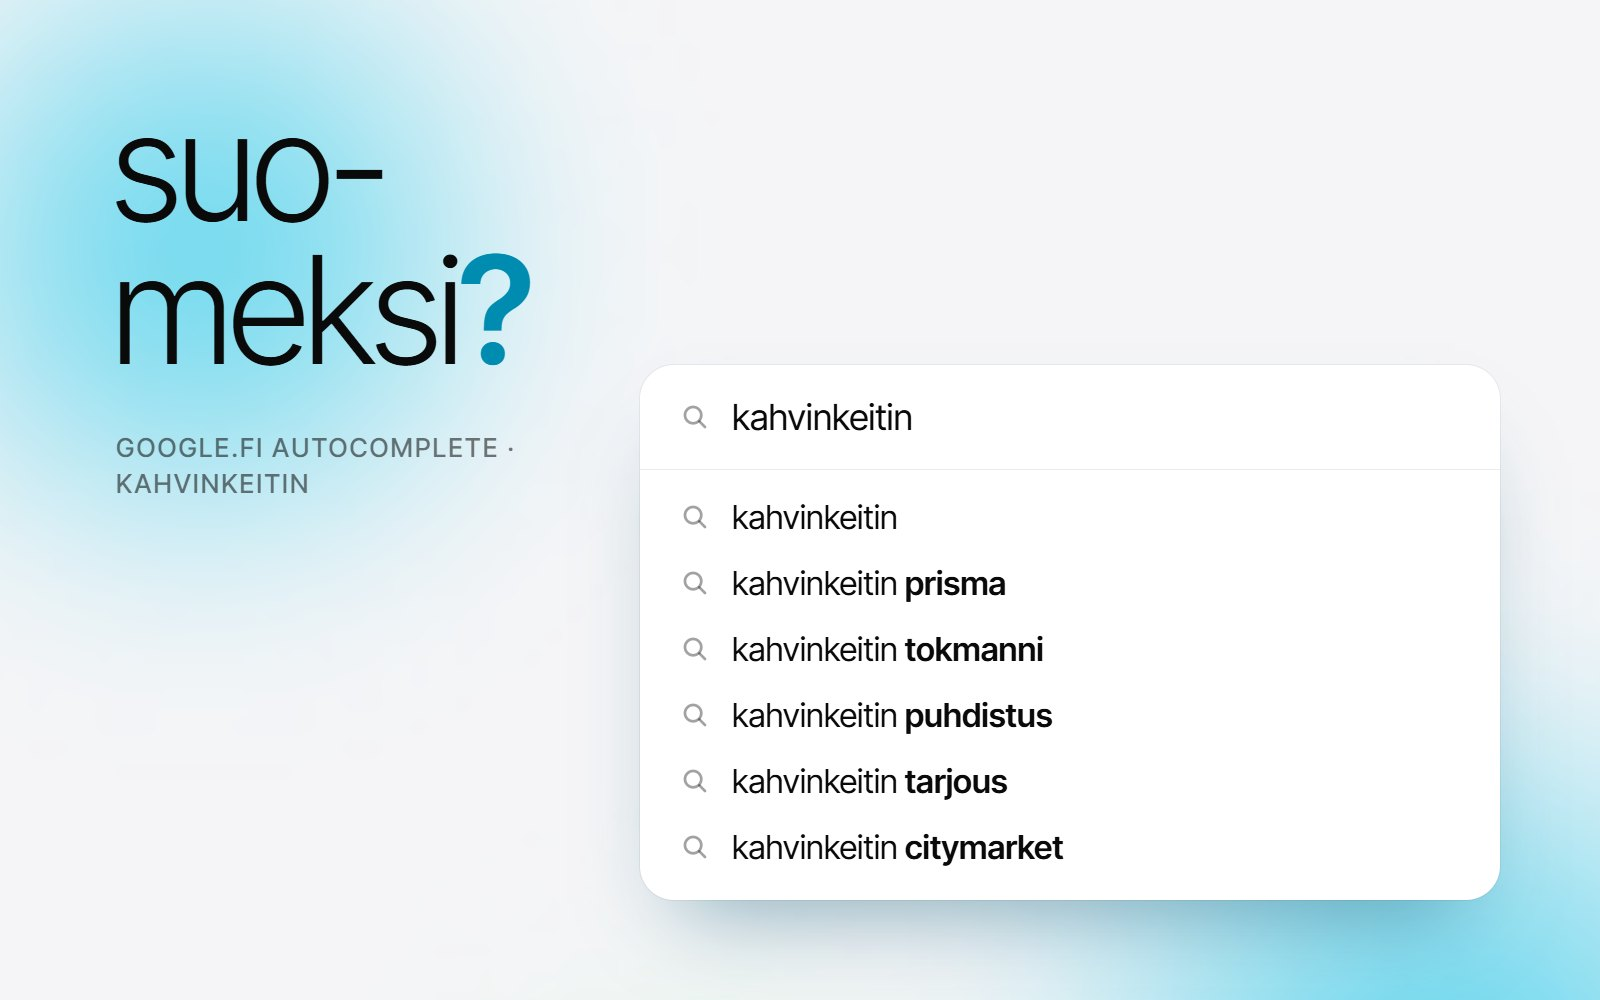
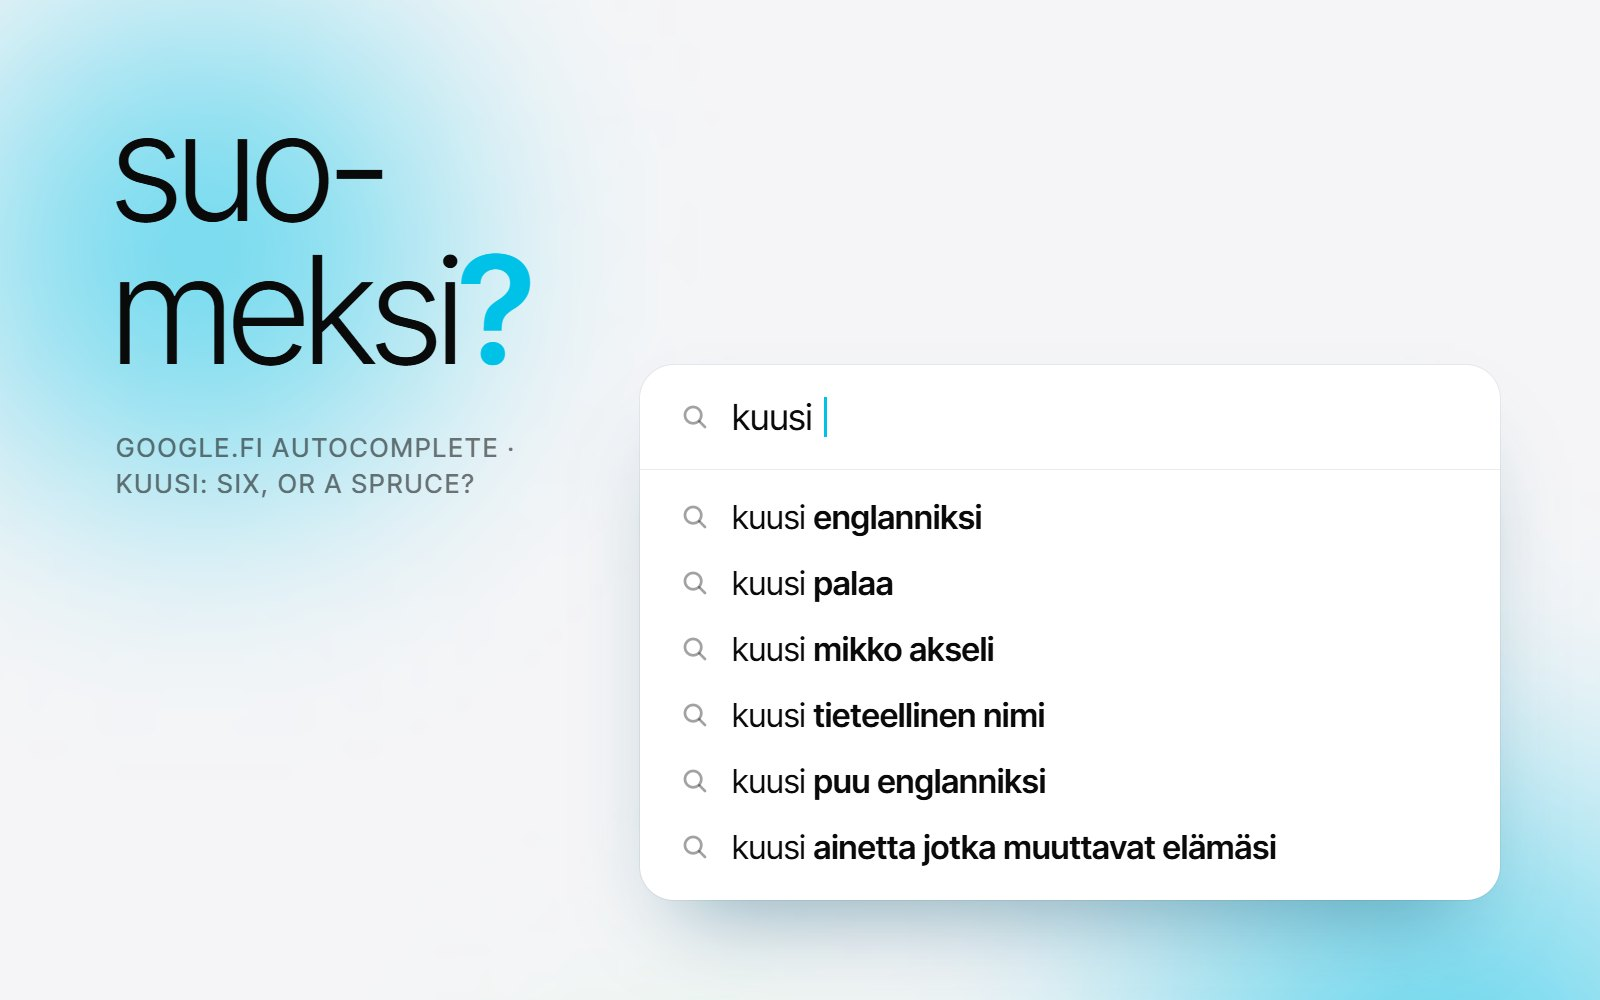
Guide covers v2: partial query keng, ambiguous kuusi, international experience on who-to-hire, Wolt blue

diff --git a/finnish-seo/how-to-choose-a-finnish-seo-consultant/index.html b/finnish-seo/how-to-choose-a-finnish-seo-consultant/index.html
@@ -15,12 +15,12 @@
 <meta property="og:title" content="How to choose an SEO consultant for Finland">
 <meta property="og:description" content="How to choose an SEO consultant or agency for the Finnish market: freelancer vs agency, what to ask before hiring, red flags and a good first month.">
 <meta property="og:url" content="https://tomaspentikainen.com/finnish-seo/how-to-choose-a-finnish-seo-consultant/">
-<meta property="og:image" content="https://tomaspentikainen.com/img/guide-how-to-choose-a-finnish-seo-consultant.jpg">
+<meta property="og:image" content="https://tomaspentikainen.com/img/guide-how-to-choose-a-finnish-seo-consultant.jpg?v=2">
 <meta property="og:image:width" content="1600">
 <meta property="og:image:height" content="1000">
 <meta name="twitter:card" content="summary_large_image">
 <script type="application/ld+json">
-[{"@context": "https://schema.org", "@type": "Article", "headline": "How to choose an SEO consultant for Finland", "description": "How to choose an SEO consultant or agency for the Finnish market: freelancer vs agency, what to ask before hiring, red flags and a good first month.", "url": "https://tomaspentikainen.com/finnish-seo/how-to-choose-a-finnish-seo-consultant/", "mainEntityOfPage": "https://tomaspentikainen.com/finnish-seo/how-to-choose-a-finnish-seo-consultant/", "inLanguage": "en", "datePublished": "2026-11-18", "dateModified": "2026-11-18", "image": "https://tomaspentikainen.com/img/guide-how-to-choose-a-finnish-seo-consultant.jpg", "author": {"@type": "Person", "name": "Tomas Pentikäinen", "url": "https://tomaspentikainen.com/", "jobTitle": "Finnish SEO Specialist"}, "publisher": {"@type": "Person", "name": "Tomas Pentikäinen", "url": "https://tomaspentikainen.com/"}}, {"@context": "https://schema.org", "@type": "BreadcrumbList", "itemListElement": [{"@type": "ListItem", "position": 1, "name": "SEO in Finland", "item": "https://tomaspentikainen.com/finnish-seo/"}, {"@type": "ListItem", "position": 2, "name": "Choosing an SEO consultant for Finland", "item": "https://tomaspentikainen.com/finnish-seo/how-to-choose-a-finnish-seo-consultant/"}]}]
+[{"@context": "https://schema.org", "@type": "Article", "headline": "How to choose an SEO consultant for Finland", "description": "How to choose an SEO consultant or agency for the Finnish market: freelancer vs agency, what to ask before hiring, red flags and a good first month.", "url": "https://tomaspentikainen.com/finnish-seo/how-to-choose-a-finnish-seo-consultant/", "mainEntityOfPage": "https://tomaspentikainen.com/finnish-seo/how-to-choose-a-finnish-seo-consultant/", "inLanguage": "en", "datePublished": "2026-11-18", "dateModified": "2026-11-18", "image": "https://tomaspentikainen.com/img/guide-how-to-choose-a-finnish-seo-consultant.jpg?v=2", "author": {"@type": "Person", "name": "Tomas Pentikäinen", "url": "https://tomaspentikainen.com/", "jobTitle": "Finnish SEO Specialist"}, "publisher": {"@type": "Person", "name": "Tomas Pentikäinen", "url": "https://tomaspentikainen.com/"}}, {"@context": "https://schema.org", "@type": "BreadcrumbList", "itemListElement": [{"@type": "ListItem", "position": 1, "name": "SEO in Finland", "item": "https://tomaspentikainen.com/finnish-seo/"}, {"@type": "ListItem", "position": 2, "name": "Choosing an SEO consultant for Finland", "item": "https://tomaspentikainen.com/finnish-seo/how-to-choose-a-finnish-seo-consultant/"}]}]
 </script>
 <link rel="preconnect" href="https://fonts.googleapis.com">
 <link rel="preconnect" href="https://fonts.gstatic.com" crossorigin>
@@ -443,7 +443,7 @@ html,body{overflow-x:hidden}
     <p class="crumbs"><a href="/finnish-seo/">SEO in Finland</a> · Guide</p>
     <h1>How to choose an SEO consultant for Finland</h1>
     <p class="meta byline"><img src="/portfolio-tomas.jpg" alt="" width="40" height="40">By Tomas Pentikäinen, Finnish SEO strategist · 18 November 2026</p>
-  </div><img class="ah-img" src="/img/guide-how-to-choose-a-finnish-seo-consultant.jpg" alt="Tomas Pentikäinen, Finnish SEO specialist in Helsinki, next to the question who to hire" width="1600" height="1000" fetchpriority="high"></div></div>
+  </div><img class="ah-img" src="/img/guide-how-to-choose-a-finnish-seo-consultant.jpg?v=2" alt="Tomas Pentikäinen, Finnish SEO specialist in Helsinki, with international experience at Netflix, JD Sports, size? and Kantar" width="1600" height="1000" fetchpriority="high"></div></div>
 </div>
 
 <main id="main">

diff --git a/finnish-seo/do-you-need-a-finnish-website/index.html b/finnish-seo/do-you-need-a-finnish-website/index.html
@@ -15,12 +15,12 @@
 <meta property="og:title" content="Do you need a Finnish-language website to sell in Finland?">
 <meta property="og:description" content="Most Finns read English, but they search in Finnish. When an English site is enough for Finland, when you need Finnish pages, and where to start.">
 <meta property="og:url" content="https://tomaspentikainen.com/finnish-seo/do-you-need-a-finnish-website/">
-<meta property="og:image" content="https://tomaspentikainen.com/img/guide-do-you-need-a-finnish-website.jpg">
+<meta property="og:image" content="https://tomaspentikainen.com/img/guide-do-you-need-a-finnish-website.jpg?v=2">
 <meta property="og:image:width" content="1600">
 <meta property="og:image:height" content="1000">
 <meta name="twitter:card" content="summary_large_image">
 <script type="application/ld+json">
-[{"@context": "https://schema.org", "@type": "Article", "headline": "Do you need a Finnish-language website to sell in Finland?", "description": "Most Finns read English, but they search in Finnish. When an English site is enough for Finland, when you need Finnish pages, and where to start.", "url": "https://tomaspentikainen.com/finnish-seo/do-you-need-a-finnish-website/", "mainEntityOfPage": "https://tomaspentikainen.com/finnish-seo/do-you-need-a-finnish-website/", "inLanguage": "en", "datePublished": "2026-11-17", "dateModified": "2026-11-18", "image": "https://tomaspentikainen.com/img/guide-do-you-need-a-finnish-website.jpg", "author": {"@type": "Person", "name": "Tomas Pentikäinen", "url": "https://tomaspentikainen.com/", "jobTitle": "Finnish SEO Specialist"}, "publisher": {"@type": "Person", "name": "Tomas Pentikäinen", "url": "https://tomaspentikainen.com/"}}, {"@context": "https://schema.org", "@type": "BreadcrumbList", "itemListElement": [{"@type": "ListItem", "position": 1, "name": "SEO in Finland", "item": "https://tomaspentikainen.com/finnish-seo/"}, {"@type": "ListItem", "position": 2, "name": "Finnish website or English?", "item": "https://tomaspentikainen.com/finnish-seo/do-you-need-a-finnish-website/"}]}]
+[{"@context": "https://schema.org", "@type": "Article", "headline": "Do you need a Finnish-language website to sell in Finland?", "description": "Most Finns read English, but they search in Finnish. When an English site is enough for Finland, when you need Finnish pages, and where to start.", "url": "https://tomaspentikainen.com/finnish-seo/do-you-need-a-finnish-website/", "mainEntityOfPage": "https://tomaspentikainen.com/finnish-seo/do-you-need-a-finnish-website/", "inLanguage": "en", "datePublished": "2026-11-17", "dateModified": "2026-11-18", "image": "https://tomaspentikainen.com/img/guide-do-you-need-a-finnish-website.jpg?v=2", "author": {"@type": "Person", "name": "Tomas Pentikäinen", "url": "https://tomaspentikainen.com/", "jobTitle": "Finnish SEO Specialist"}, "publisher": {"@type": "Person", "name": "Tomas Pentikäinen", "url": "https://tomaspentikainen.com/"}}, {"@context": "https://schema.org", "@type": "BreadcrumbList", "itemListElement": [{"@type": "ListItem", "position": 1, "name": "SEO in Finland", "item": "https://tomaspentikainen.com/finnish-seo/"}, {"@type": "ListItem", "position": 2, "name": "Finnish website or English?", "item": "https://tomaspentikainen.com/finnish-seo/do-you-need-a-finnish-website/"}]}]
 </script>
 <link rel="preconnect" href="https://fonts.googleapis.com">
 <link rel="preconnect" href="https://fonts.gstatic.com" crossorigin>
@@ -432,7 +432,7 @@ html,body{overflow-x:hidden}
     <p class="crumbs"><a href="/finnish-seo/">SEO in Finland</a> · Guide</p>
     <h1>Do you need a Finnish-language website to sell in Finland?</h1>
     <p class="meta byline"><img src="/portfolio-tomas.jpg" alt="" width="40" height="40">By Tomas Pentikäinen, Finnish SEO strategist · 17 November 2026</p>
-  </div><img class="ah-img" src="/img/guide-do-you-need-a-finnish-website.jpg" alt="Google.fi autocomplete suggestions for kahvinkeitin (coffee maker) showing Finnish retailers" width="1600" height="1000" fetchpriority="high"></div></div>
+  </div><img class="ah-img" src="/img/guide-do-you-need-a-finnish-website.jpg?v=2" alt="Google.fi autocomplete for kuusi, a Finnish word that means both six and spruce" width="1600" height="1000" fetchpriority="high"></div></div>
 </div>
 
 <main id="main">

diff --git a/finnish-seo/finnish-website-localization/index.html b/finnish-seo/finnish-website-localization/index.html
@@ -15,12 +15,12 @@
 <meta property="og:title" content="How to localize a website for Finland">
 <meta property="og:description" content="Localizing a website for Finland takes Finnish keywords, local prices, the right tone and clean hreflang. A native Finnish SEO strategist&#x27;s checklist.">
 <meta property="og:url" content="https://tomaspentikainen.com/finnish-seo/finnish-website-localization/">
-<meta property="og:image" content="https://tomaspentikainen.com/img/guide-finnish-website-localization.jpg">
+<meta property="og:image" content="https://tomaspentikainen.com/img/guide-finnish-website-localization.jpg?v=2">
 <meta property="og:image:width" content="1600">
 <meta property="og:image:height" content="1000">
 <meta name="twitter:card" content="summary_large_image">
 <script type="application/ld+json">
-[{"@context": "https://schema.org", "@type": "Article", "headline": "How to localize a website for Finland", "description": "Localizing a website for Finland takes Finnish keywords, local prices, the right tone and clean hreflang. A native Finnish SEO strategist's checklist.", "url": "https://tomaspentikainen.com/finnish-seo/finnish-website-localization/", "mainEntityOfPage": "https://tomaspentikainen.com/finnish-seo/finnish-website-localization/", "inLanguage": "en", "datePublished": "2026-11-17", "dateModified": "2026-11-18", "image": "https://tomaspentikainen.com/img/guide-finnish-website-localization.jpg", "author": {"@type": "Person", "name": "Tomas Pentikäinen", "url": "https://tomaspentikainen.com/", "jobTitle": "Finnish SEO Specialist"}, "publisher": {"@type": "Person", "name": "Tomas Pentikäinen", "url": "https://tomaspentikainen.com/"}}, {"@context": "https://schema.org", "@type": "BreadcrumbList", "itemListElement": [{"@type": "ListItem", "position": 1, "name": "SEO in Finland", "item": "https://tomaspentikainen.com/finnish-seo/"}, {"@type": "ListItem", "position": 2, "name": "Finnish website localization", "item": "https://tomaspentikainen.com/finnish-seo/finnish-website-localization/"}]}]
+[{"@context": "https://schema.org", "@type": "Article", "headline": "How to localize a website for Finland", "description": "Localizing a website for Finland takes Finnish keywords, local prices, the right tone and clean hreflang. A native Finnish SEO strategist's checklist.", "url": "https://tomaspentikainen.com/finnish-seo/finnish-website-localization/", "mainEntityOfPage": "https://tomaspentikainen.com/finnish-seo/finnish-website-localization/", "inLanguage": "en", "datePublished": "2026-11-17", "dateModified": "2026-11-18", "image": "https://tomaspentikainen.com/img/guide-finnish-website-localization.jpg?v=2", "author": {"@type": "Person", "name": "Tomas Pentikäinen", "url": "https://tomaspentikainen.com/", "jobTitle": "Finnish SEO Specialist"}, "publisher": {"@type": "Person", "name": "Tomas Pentikäinen", "url": "https://tomaspentikainen.com/"}}, {"@context": "https://schema.org", "@type": "BreadcrumbList", "itemListElement": [{"@type": "ListItem", "position": 1, "name": "SEO in Finland", "item": "https://tomaspentikainen.com/finnish-seo/"}, {"@type": "ListItem", "position": 2, "name": "Finnish website localization", "item": "https://tomaspentikainen.com/finnish-seo/finnish-website-localization/"}]}]
 </script>
 <link rel="preconnect" href="https://fonts.googleapis.com">
 <link rel="preconnect" href="https://fonts.gstatic.com" crossorigin>
@@ -432,7 +432,7 @@ html,body{overflow-x:hidden}
     <p class="crumbs"><a href="/finnish-seo/">SEO in Finland</a> · Guide</p>
     <h1>How to localize a website for Finland</h1>
     <p class="meta byline"><img src="/portfolio-tomas.jpg" alt="" width="40" height="40">By Tomas Pentikäinen, Finnish SEO strategist · 17 November 2026</p>
-  </div><img class="ah-img" src="/img/guide-finnish-website-localization.jpg" alt="A Google.fi search result for Ravintola Teller with a Finnish title and description, on a sky-blue background" width="1600" height="1000" fetchpriority="high"></div></div>
+  </div><img class="ah-img" src="/img/guide-finnish-website-localization.jpg?v=2" alt="A Google.fi search result for Ravintola Teller with a Finnish title and description, on a sky-blue background" width="1600" height="1000" fetchpriority="high"></div></div>
 </div>
 
 <main id="main">

diff --git a/finnish-seo/finnish-keyword-research/index.html b/finnish-seo/finnish-keyword-research/index.html
@@ -15,12 +15,12 @@
 <meta property="og:title" content="Finnish keyword research: why translated keywords fail">
 <meta property="og:description" content="Translated keyword lists miss how Finns search. Learn how Finnish cases, compound words and everyday vocabulary change keyword research for Finland.">
 <meta property="og:url" content="https://tomaspentikainen.com/finnish-seo/finnish-keyword-research/">
-<meta property="og:image" content="https://tomaspentikainen.com/img/guide-finnish-keyword-research.jpg">
+<meta property="og:image" content="https://tomaspentikainen.com/img/guide-finnish-keyword-research.jpg?v=2">
 <meta property="og:image:width" content="1600">
 <meta property="og:image:height" content="1000">
 <meta name="twitter:card" content="summary_large_image">
 <script type="application/ld+json">
-[{"@context": "https://schema.org", "@type": "Article", "headline": "Finnish keyword research: why translated keywords fail", "description": "Translated keyword lists miss how Finns search. Learn how Finnish cases, compound words and everyday vocabulary change keyword research for Finland.", "url": "https://tomaspentikainen.com/finnish-seo/finnish-keyword-research/", "mainEntityOfPage": "https://tomaspentikainen.com/finnish-seo/finnish-keyword-research/", "inLanguage": "en", "datePublished": "2026-11-17", "dateModified": "2026-11-18", "image": "https://tomaspentikainen.com/img/guide-finnish-keyword-research.jpg", "author": {"@type": "Person", "name": "Tomas Pentikäinen", "url": "https://tomaspentikainen.com/", "jobTitle": "Finnish SEO Specialist"}, "publisher": {"@type": "Person", "name": "Tomas Pentikäinen", "url": "https://tomaspentikainen.com/"}}, {"@context": "https://schema.org", "@type": "BreadcrumbList", "itemListElement": [{"@type": "ListItem", "position": 1, "name": "SEO in Finland", "item": "https://tomaspentikainen.com/finnish-seo/"}, {"@type": "ListItem", "position": 2, "name": "Finnish keyword research", "item": "https://tomaspentikainen.com/finnish-seo/finnish-keyword-research/"}]}]
+[{"@context": "https://schema.org", "@type": "Article", "headline": "Finnish keyword research: why translated keywords fail", "description": "Translated keyword lists miss how Finns search. Learn how Finnish cases, compound words and everyday vocabulary change keyword research for Finland.", "url": "https://tomaspentikainen.com/finnish-seo/finnish-keyword-research/", "mainEntityOfPage": "https://tomaspentikainen.com/finnish-seo/finnish-keyword-research/", "inLanguage": "en", "datePublished": "2026-11-17", "dateModified": "2026-11-18", "image": "https://tomaspentikainen.com/img/guide-finnish-keyword-research.jpg?v=2", "author": {"@type": "Person", "name": "Tomas Pentikäinen", "url": "https://tomaspentikainen.com/", "jobTitle": "Finnish SEO Specialist"}, "publisher": {"@type": "Person", "name": "Tomas Pentikäinen", "url": "https://tomaspentikainen.com/"}}, {"@context": "https://schema.org", "@type": "BreadcrumbList", "itemListElement": [{"@type": "ListItem", "position": 1, "name": "SEO in Finland", "item": "https://tomaspentikainen.com/finnish-seo/"}, {"@type": "ListItem", "position": 2, "name": "Finnish keyword research", "item": "https://tomaspentikainen.com/finnish-seo/finnish-keyword-research/"}]}]
 </script>
 <link rel="preconnect" href="https://fonts.googleapis.com">
 <link rel="preconnect" href="https://fonts.gstatic.com" crossorigin>
@@ -432,7 +432,7 @@ html,body{overflow-x:hidden}
     <p class="crumbs"><a href="/finnish-seo/">SEO in Finland</a> · Guide</p>
     <h1>Finnish keyword research: why translated keywords fail</h1>
     <p class="meta byline"><img src="/portfolio-tomas.jpg" alt="" width="40" height="40">By Tomas Pentikäinen, Finnish SEO strategist · 17 November 2026</p>
-  </div><img class="ah-img" src="/img/guide-finnish-keyword-research.jpg" alt="Google.fi autocomplete suggestions for the Finnish word kengät (shoes), with the letters ä and ö" width="1600" height="1000" fetchpriority="high"></div></div>
+  </div><img class="ah-img" src="/img/guide-finnish-keyword-research.jpg?v=2" alt="Google.fi autocomplete for the partial search keng: kengät, kengännauhat, kenguru and other forms" width="1600" height="1000" fetchpriority="high"></div></div>
 </div>
 
 <main id="main">
